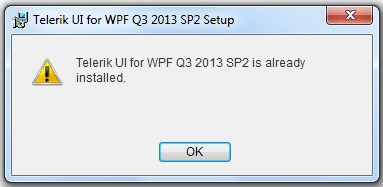
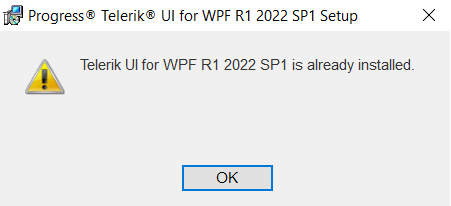
Refactor Updating article

diff --git a/upgrade/installation-upgrading-from-trial-to-developer-license-wpf.md b/upgrade/installation-upgrading-from-trial-to-developer-license-wpf.md
@@ -11,37 +11,33 @@ site_name: WPF
 
 # Upgrading Telerik UI Trial to Telerik UI Developer License or Newer Version
 
-The purpose of this topic is to explain you how to upgrade Telerik UI Trial to Telerik Developer License or a newer version.
+This article will guide you through the process of upgrading your Telerik UI Trial to a Developer license or a newer version.
 
-## Automatic Upgrade to newer version of UI for WPF
+## Automatic Upgrade to a Newer Version of UI for WPF
 
-Utilize the __Progress Telerik UI for WPF Extension__ wizards for this purpose:
+To automatically upgrade to the newer version, you can utilize the __Progress Telerik UI for WPF Extension__ wizards. You can find more information in the respective articles:
 
 * [Latest Version Acquirer Tool]({%slug radcontrols-vs-extensions-project-latest-version-acquirer%})
 
-* [Upgrading to a new UI for WPF distribution]({%slug radcontrols-for-wpf-vs-extensions-upgrading%})
+* [Project Upgrade Wizard]({%slug radcontrols-for-wpf-vs-extensions-upgrading%})
 
 ## Upgrade to Newer Version or Other License of UI for WPF
 
-In order to upgrade your controls to a newer version of the suite, you need to perform the following instructions:
+In order to manually upgrade your controls to a newer version of the suite, you need to perform the following steps:
 
 * Download the installation method you prefer:
              	  
-	* [MSI file for automatic installation.]({%slug installation-installing-from-msi-wpf%})
+	* [MSI file for automatic installation]({%slug installation-installing-from-msi-wpf%})
 
-	* [ZIP file for manual (advanced) installation.]({%slug installation-installing-from-zip-wpf%})
+	* [ZIP file for manual (advanced) installation]({%slug installation-installing-from-zip-wpf%})
 
 	* [Latest Internal Build]({%slug installation-installing-lib%})
 
->If you have installed the trial version of UI for WPF and try to install the developer version of the same release, you will receive the following message:
->![Common Installing Already Installed WPF](images/Common_Installing_AlreadyInstalled_WPF.png)
->So, you should remove the trial version first.
-
-* If the upgrade is major (i.e. from Q2 2011 to Q3 2011), check the [Release History](http://www.telerik.com/products/wpf/whats-new.aspx).
+* If the upgrade is major (i.e. from R2 2021 to R3 2021), check the [Release History](http://www.telerik.com/products/wpf/whats-new.aspx) to see if there are any major changes. You can also run the [API Analyzer Tool]({%slug upgrade-api-analyzer%}) to check for any breaking changes.
 
 * Back up your application.
 
-* Update all the Telerik references in your project in Visual Studio to point to the new DLLs.
+* Manually Telerik references in your project in Visual Studio to point to the new DLLs or use the [References Resolver](https://marketplace.visualstudio.com/items?itemName=DeyanYosifov.ReferencesResolverExtension) extension to achieve this automatically.
 
 * Clean the solution.
 
@@ -49,29 +45,41 @@ In order to upgrade your controls to a newer version of the suite, you need to p
 
 * Run the project.
 
-## How to check the version of dll files using Visual Studio:
+## MSI Installation
 
-In order to check are the dll files trial or dev version, you need to perform the following instructions:
+If you have installed the trial version of UI for WPF and try to install the developer version of the same release, you will receive the following message:
 
-1. Open the project containing the dll-s with Visual Studio. 
-  
-2. Double click on one of the following dll files so the properties window of the dll to be shown: *Telerik.Windows.Controls* or *Telerik.Windows.Documents.Core*.
-          
-3. Expand the Version folder.
-   
-4. Double Click on the version and you will see the whole information about the dll.
-          
-If this is Trial Version this will be written in the FileDescription property.
-        
-__For example:__
+![Common Installing Already Installed WPF](images/Common_Installing_AlreadyInstalled_WPF.png)
 
-* Telerik.Windows.Controls Trial Version
+In this case, you need to remove the trial version first.
+
+Alternatively, if a previous version is detected, you will observe the following prompt:
+
+![Common Installing Already Installed WPF](images/Common_Installing_PreviousVersionInstalled_WPF.png)
+
+>If you agree to this prompt and the newly-installed version is a service pack, it will be installed in the same folder as the major release.
+
+## Checking the Assemblies' Version
+
+To check what type of license the binaries you're using have, you can check the **Properties** of the **Telerik.Windows.Controls.dll** file. **Only this file** contains information for the dlls version in its metadata. To get this information use the following steps:
+
+1. Right click on the Telerik.Windows.Controls.dll file and select the __Properties__ options from the context menu. 
+2. Go to the __Details__ tab in the Properties window.
+3. Check the __File description__ attribute. It will contain the **"Trial Version"** suffix if the dlls are Trial. Otherwise, there will be only the dll's name. 
+
+#### Figure 1: Telerik.Windows.Controls.dll Properties
+![Telerik.Windows.Controls.dll Properties](images/Common_Installing_TrialVersionDescription_WPF.png)
           
-If your dll files contain this message in the FileDescription then they are Trial version and you have to replace them with Development assemblies.
-        
->In case the project does not build: 
->* Please make sure that all the assemblies you have referenced are with the same version. 
->* If this does not help, delete the bin and obj folders of the project manually and Rebuild.
+If your dll files contain this suffix in the description then they are of the Trial version and you have to replace them with Development assemblies.
+
+## Updating NuGet Packages
+
+If you're using the Telerik NuGet packages, you can update them via the **NuGet Package Manager**:
+
+#### Figure 2: Updating NuGet Packages
+![Updating NuGet Packages](images/Common_Installing_NuGetUpdate_WPF.png)
+
+If you're upgrading from a Trial version, you will need to first remove the packages with the **.Trial** suffix before installing the Development packages (which lack this suffix). Alternatively, you can edit the project file and remove the suffix from the NuGet **PackageReferences**.
             
 ## See Also  
  * [Controls Dependencies]({%slug installation-installing-controls-dependencies-wpf%})
